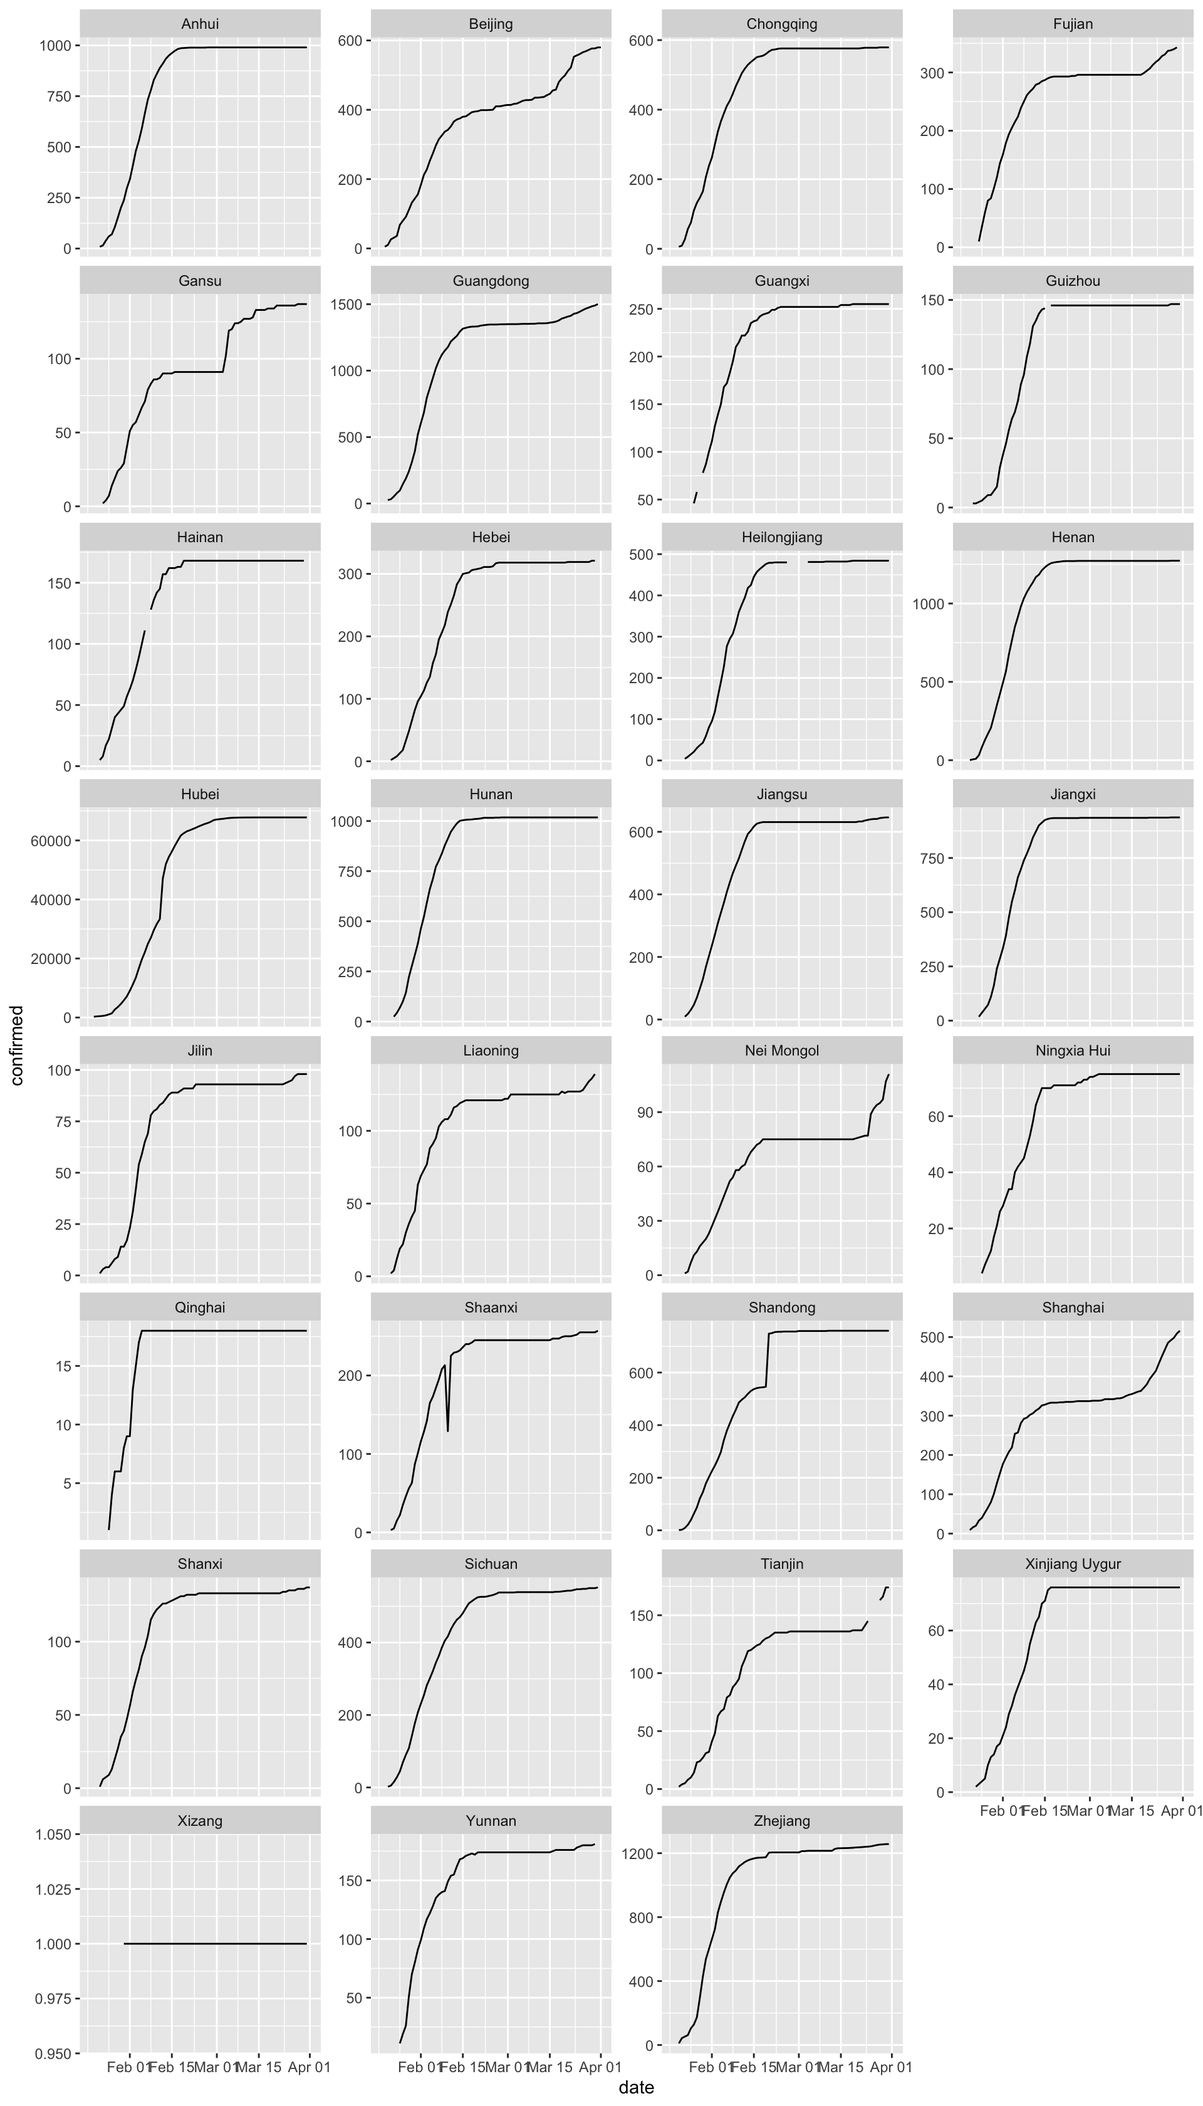
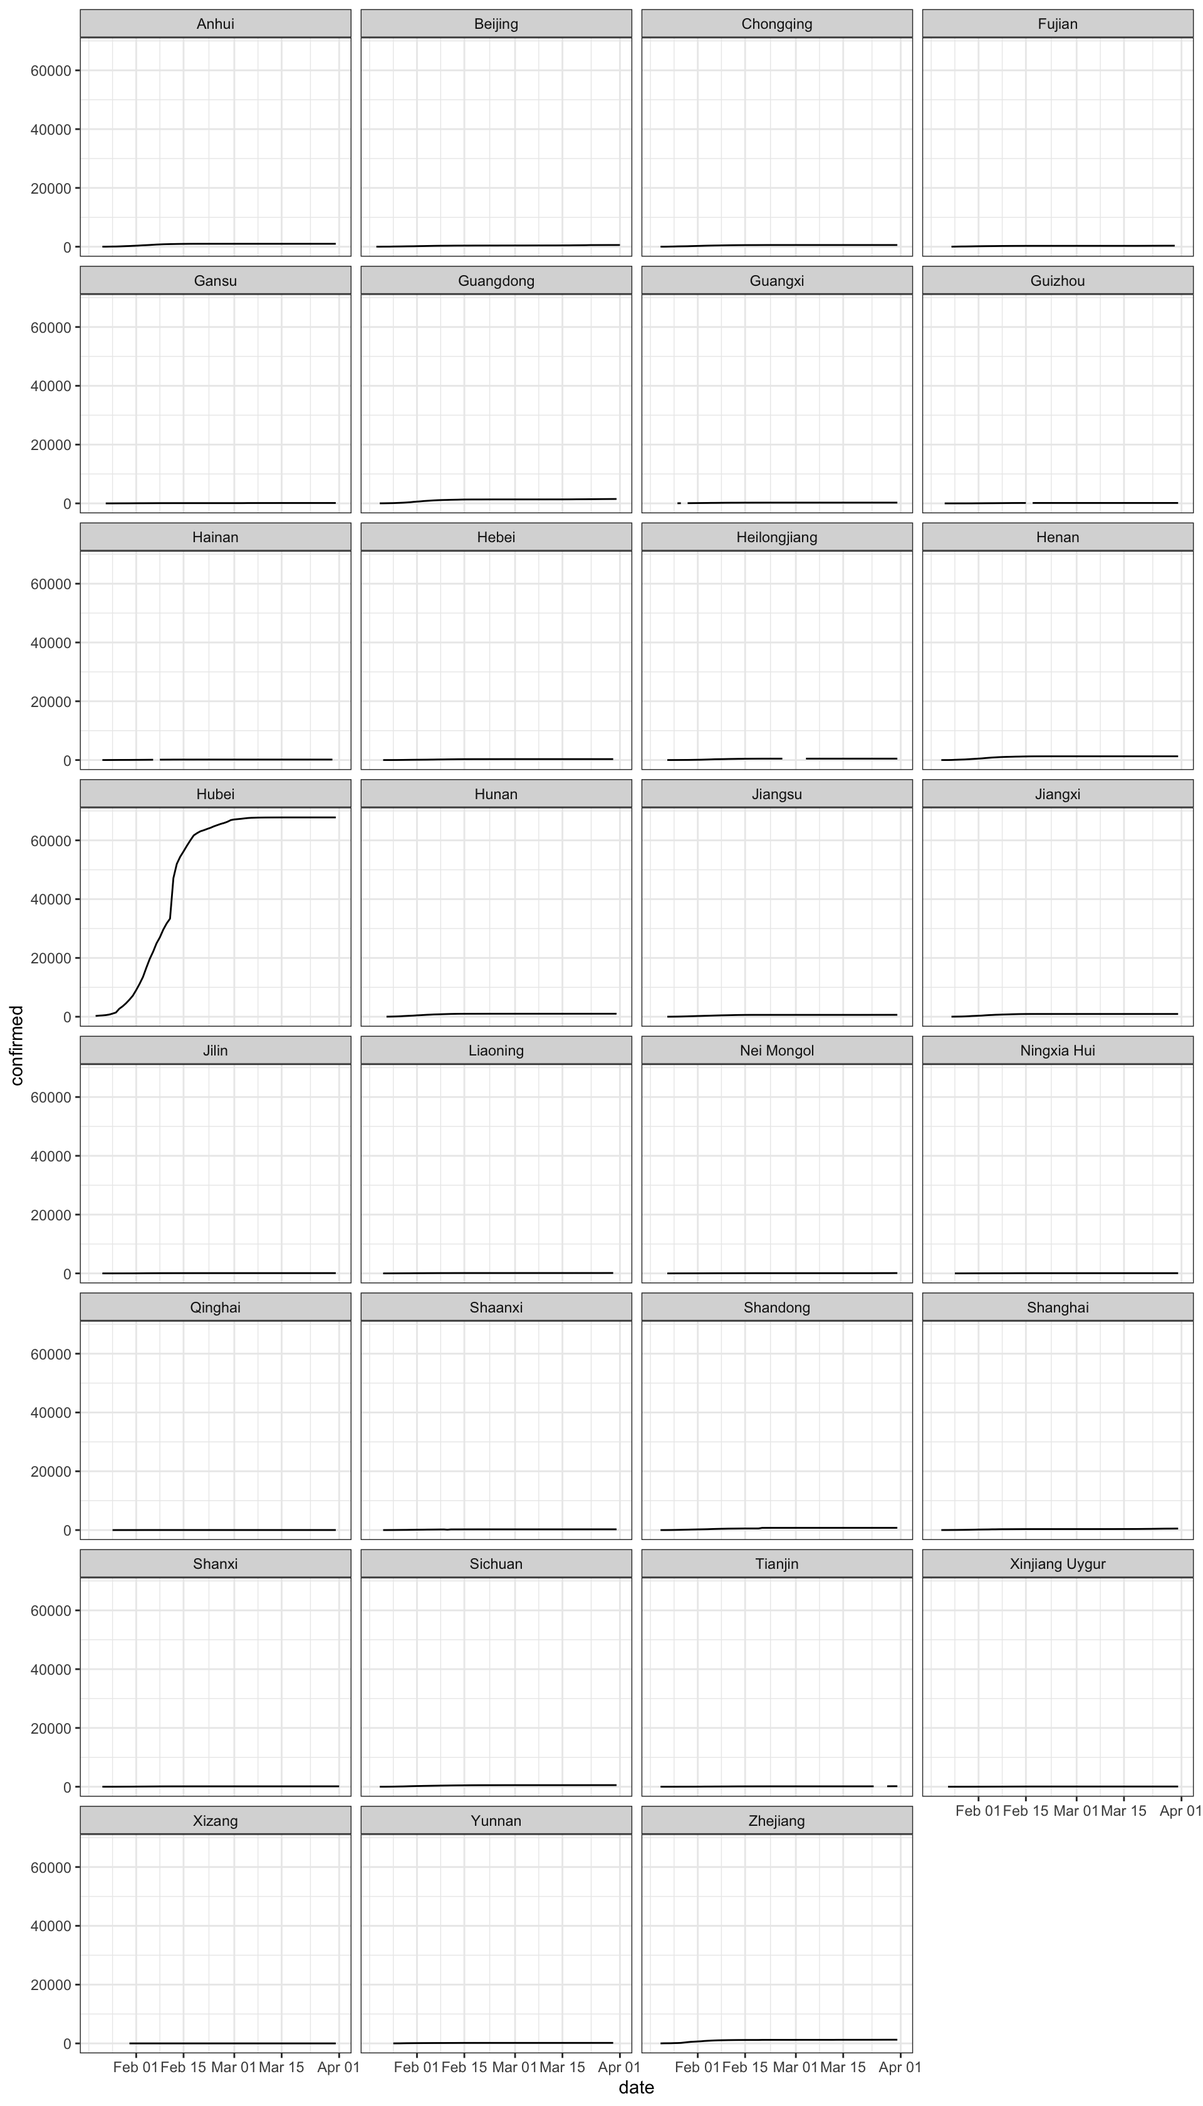
update docs/ outputs

diff --git a/docs/articles/visualisation_china.html b/docs/articles/visualisation_china.html
@@ -320,9 +320,11 @@
   <span class="fu"><a href="https://dplyr.tidyverse.org/reference/filter.html">filter</a></span>(<span class="no">source</span> <span class="kw">==</span> <span class="st">"CHN_ICL"</span>,
          !<span class="fu"><a href="https://rdrr.io/r/base/NA.html">is.na</a></span>(<span class="no">adm_area_1</span>)) <span class="kw">%&gt;%</span>
   <span class="fu"><a href="https://dplyr.tidyverse.org/reference/arrange.html">arrange</a></span>(<span class="fu"><a href="https://dplyr.tidyverse.org/reference/desc.html">desc</a></span>(<span class="no">date</span>)) <span class="kw">%&gt;%</span>
-  <span class="fu"><a href="https://ggplot2.tidyverse.org/reference/ggplot.html">ggplot</a></span>(<span class="kw">mapping</span> <span class="kw">=</span> <span class="fu"><a href="https://ggplot2.tidyverse.org/reference/aes.html">aes</a></span>(<span class="kw">x</span> <span class="kw">=</span> <span class="no">date</span>, <span class="kw">y</span> <span class="kw">=</span> <span class="no">confirmed</span>)) +
+  <span class="fu"><a href="https://ggplot2.tidyverse.org/reference/ggplot.html">ggplot</a></span>(<span class="kw">mapping</span> <span class="kw">=</span> <span class="fu"><a href="https://ggplot2.tidyverse.org/reference/aes.html">aes</a></span>(<span class="kw">x</span> <span class="kw">=</span> <span class="no">date</span>, <span class="kw">y</span> <span class="kw">=</span> <span class="no">confirmed</span>, <span class="kw">colour</span> <span class="kw">=</span> <span class="no">adm_area_1</span>)) +
   <span class="fu"><a href="https://ggplot2.tidyverse.org/reference/geom_path.html">geom_line</a></span>() +
-  <span class="fu"><a href="https://ggplot2.tidyverse.org/reference/facet_wrap.html">facet_wrap</a></span>( ~ <span class="no">adm_area_1</span>, <span class="kw">ncol</span> <span class="kw">=</span> <span class="fl">4</span>)</pre></body></html></div>
+  <span class="fu"><a href="https://ggplot2.tidyverse.org/reference/geom_point.html">geom_point</a></span>() +
+  <span class="fu"><a href="https://ggplot2.tidyverse.org/reference/scale_colour_discrete.html">scale_colour_discrete</a></span>(<span class="kw">name</span> <span class="kw">=</span> <span class="kw">NULL</span>) +
+  <span class="fu"><a href="https://ggplot2.tidyverse.org/reference/ggtheme.html">theme_minimal</a></span>()</pre></body></html></div>
 <p><img src="visualisation_china_files/figure-html/example7a-1.png" width="960" style="display: block; margin: auto;"></p>
 <div class="sourceCode" id="cb11"><html><body><pre class="r"><span class="fu"><a href="../reference/connect_oxcovid19.html">connect_oxcovid19</a></span>() <span class="kw">%&gt;%</span>
   <span class="fu"><a href="../reference/get_table.html">get_table</a></span>(<span class="kw">tbl_name</span> <span class="kw">=</span> <span class="st">"epidemiology"</span>) <span class="kw">%&gt;%</span>
@@ -331,21 +333,23 @@
   <span class="fu"><a href="https://dplyr.tidyverse.org/reference/arrange.html">arrange</a></span>(<span class="fu"><a href="https://dplyr.tidyverse.org/reference/desc.html">desc</a></span>(<span class="no">date</span>)) <span class="kw">%&gt;%</span>
   <span class="fu"><a href="https://ggplot2.tidyverse.org/reference/ggplot.html">ggplot</a></span>(<span class="kw">mapping</span> <span class="kw">=</span> <span class="fu"><a href="https://ggplot2.tidyverse.org/reference/aes.html">aes</a></span>(<span class="kw">x</span> <span class="kw">=</span> <span class="no">date</span>, <span class="kw">y</span> <span class="kw">=</span> <span class="no">confirmed</span>)) +
   <span class="fu"><a href="https://ggplot2.tidyverse.org/reference/geom_path.html">geom_line</a></span>() +
-  <span class="fu"><a href="https://ggplot2.tidyverse.org/reference/facet_wrap.html">facet_wrap</a></span>( ~ <span class="no">adm_area_1</span>, <span class="kw">ncol</span> <span class="kw">=</span> <span class="fl">4</span>, <span class="kw">scales</span> <span class="kw">=</span> <span class="st">"free_y"</span>)</pre></body></html></div>
+  <span class="fu"><a href="https://ggplot2.tidyverse.org/reference/facet_wrap.html">facet_wrap</a></span>( ~ <span class="no">adm_area_1</span>, <span class="kw">ncol</span> <span class="kw">=</span> <span class="fl">4</span>) +
+  <span class="fu"><a href="https://ggplot2.tidyverse.org/reference/ggtheme.html">theme_bw</a></span>()</pre></body></html></div>
 <p><img src="visualisation_china_files/figure-html/example7b-1.png" width="960" style="display: block; margin: auto;"></p>
-</div>
-<div id="check-monotonicity-of-data---dead" class="section level2">
-<h2 class="hasAnchor">
-<a href="#check-monotonicity-of-data---dead" class="anchor"></a>Check monotonicity of data - dead</h2>
 <div class="sourceCode" id="cb12"><html><body><pre class="r"><span class="fu"><a href="../reference/connect_oxcovid19.html">connect_oxcovid19</a></span>() <span class="kw">%&gt;%</span>
   <span class="fu"><a href="../reference/get_table.html">get_table</a></span>(<span class="kw">tbl_name</span> <span class="kw">=</span> <span class="st">"epidemiology"</span>) <span class="kw">%&gt;%</span>
   <span class="fu"><a href="https://dplyr.tidyverse.org/reference/filter.html">filter</a></span>(<span class="no">source</span> <span class="kw">==</span> <span class="st">"CHN_ICL"</span>,
          !<span class="fu"><a href="https://rdrr.io/r/base/NA.html">is.na</a></span>(<span class="no">adm_area_1</span>)) <span class="kw">%&gt;%</span>
   <span class="fu"><a href="https://dplyr.tidyverse.org/reference/arrange.html">arrange</a></span>(<span class="fu"><a href="https://dplyr.tidyverse.org/reference/desc.html">desc</a></span>(<span class="no">date</span>)) <span class="kw">%&gt;%</span>
-  <span class="fu"><a href="https://ggplot2.tidyverse.org/reference/ggplot.html">ggplot</a></span>(<span class="kw">mapping</span> <span class="kw">=</span> <span class="fu"><a href="https://ggplot2.tidyverse.org/reference/aes.html">aes</a></span>(<span class="kw">x</span> <span class="kw">=</span> <span class="no">date</span>, <span class="kw">y</span> <span class="kw">=</span> <span class="no">dead</span>)) +
+  <span class="fu"><a href="https://ggplot2.tidyverse.org/reference/ggplot.html">ggplot</a></span>(<span class="kw">mapping</span> <span class="kw">=</span> <span class="fu"><a href="https://ggplot2.tidyverse.org/reference/aes.html">aes</a></span>(<span class="kw">x</span> <span class="kw">=</span> <span class="no">date</span>, <span class="kw">y</span> <span class="kw">=</span> <span class="no">confirmed</span>)) +
   <span class="fu"><a href="https://ggplot2.tidyverse.org/reference/geom_path.html">geom_line</a></span>() +
-  <span class="fu"><a href="https://ggplot2.tidyverse.org/reference/facet_wrap.html">facet_wrap</a></span>( ~ <span class="no">adm_area_1</span>, <span class="kw">ncol</span> <span class="kw">=</span> <span class="fl">4</span>)</pre></body></html></div>
-<p><img src="visualisation_china_files/figure-html/example8a-1.png" width="960" style="display: block; margin: auto;"></p>
+  <span class="fu"><a href="https://ggplot2.tidyverse.org/reference/facet_wrap.html">facet_wrap</a></span>( ~ <span class="no">adm_area_1</span>, <span class="kw">ncol</span> <span class="kw">=</span> <span class="fl">4</span>, <span class="kw">scales</span> <span class="kw">=</span> <span class="st">"free_y"</span>) +
+  <span class="fu"><a href="https://ggplot2.tidyverse.org/reference/ggtheme.html">theme_bw</a></span>()</pre></body></html></div>
+<p><img src="visualisation_china_files/figure-html/example7c-1.png" width="960" style="display: block; margin: auto;"></p>
+</div>
+<div id="check-monotonicity-of-data---dead" class="section level2">
+<h2 class="hasAnchor">
+<a href="#check-monotonicity-of-data---dead" class="anchor"></a>Check monotonicity of data - dead</h2>
 <div class="sourceCode" id="cb13"><html><body><pre class="r"><span class="fu"><a href="../reference/connect_oxcovid19.html">connect_oxcovid19</a></span>() <span class="kw">%&gt;%</span>
   <span class="fu"><a href="../reference/get_table.html">get_table</a></span>(<span class="kw">tbl_name</span> <span class="kw">=</span> <span class="st">"epidemiology"</span>) <span class="kw">%&gt;%</span>
   <span class="fu"><a href="https://dplyr.tidyverse.org/reference/filter.html">filter</a></span>(<span class="no">source</span> <span class="kw">==</span> <span class="st">"CHN_ICL"</span>,
@@ -353,7 +357,18 @@
   <span class="fu"><a href="https://dplyr.tidyverse.org/reference/arrange.html">arrange</a></span>(<span class="fu"><a href="https://dplyr.tidyverse.org/reference/desc.html">desc</a></span>(<span class="no">date</span>)) <span class="kw">%&gt;%</span>
   <span class="fu"><a href="https://ggplot2.tidyverse.org/reference/ggplot.html">ggplot</a></span>(<span class="kw">mapping</span> <span class="kw">=</span> <span class="fu"><a href="https://ggplot2.tidyverse.org/reference/aes.html">aes</a></span>(<span class="kw">x</span> <span class="kw">=</span> <span class="no">date</span>, <span class="kw">y</span> <span class="kw">=</span> <span class="no">dead</span>)) +
   <span class="fu"><a href="https://ggplot2.tidyverse.org/reference/geom_path.html">geom_line</a></span>() +
-  <span class="fu"><a href="https://ggplot2.tidyverse.org/reference/facet_wrap.html">facet_wrap</a></span>( ~ <span class="no">adm_area_1</span>, <span class="kw">ncol</span> <span class="kw">=</span> <span class="fl">4</span>, <span class="kw">scales</span> <span class="kw">=</span> <span class="st">"free_y"</span>)</pre></body></html></div>
+  <span class="fu"><a href="https://ggplot2.tidyverse.org/reference/facet_wrap.html">facet_wrap</a></span>( ~ <span class="no">adm_area_1</span>, <span class="kw">ncol</span> <span class="kw">=</span> <span class="fl">4</span>) +
+  <span class="fu"><a href="https://ggplot2.tidyverse.org/reference/ggtheme.html">theme_bw</a></span>()</pre></body></html></div>
+<p><img src="visualisation_china_files/figure-html/example8a-1.png" width="960" style="display: block; margin: auto;"></p>
+<div class="sourceCode" id="cb14"><html><body><pre class="r"><span class="fu"><a href="../reference/connect_oxcovid19.html">connect_oxcovid19</a></span>() <span class="kw">%&gt;%</span>
+  <span class="fu"><a href="../reference/get_table.html">get_table</a></span>(<span class="kw">tbl_name</span> <span class="kw">=</span> <span class="st">"epidemiology"</span>) <span class="kw">%&gt;%</span>
+  <span class="fu"><a href="https://dplyr.tidyverse.org/reference/filter.html">filter</a></span>(<span class="no">source</span> <span class="kw">==</span> <span class="st">"CHN_ICL"</span>,
+         !<span class="fu"><a href="https://rdrr.io/r/base/NA.html">is.na</a></span>(<span class="no">adm_area_1</span>)) <span class="kw">%&gt;%</span>
+  <span class="fu"><a href="https://dplyr.tidyverse.org/reference/arrange.html">arrange</a></span>(<span class="fu"><a href="https://dplyr.tidyverse.org/reference/desc.html">desc</a></span>(<span class="no">date</span>)) <span class="kw">%&gt;%</span>
+  <span class="fu"><a href="https://ggplot2.tidyverse.org/reference/ggplot.html">ggplot</a></span>(<span class="kw">mapping</span> <span class="kw">=</span> <span class="fu"><a href="https://ggplot2.tidyverse.org/reference/aes.html">aes</a></span>(<span class="kw">x</span> <span class="kw">=</span> <span class="no">date</span>, <span class="kw">y</span> <span class="kw">=</span> <span class="no">dead</span>)) +
+  <span class="fu"><a href="https://ggplot2.tidyverse.org/reference/geom_path.html">geom_line</a></span>() +
+  <span class="fu"><a href="https://ggplot2.tidyverse.org/reference/facet_wrap.html">facet_wrap</a></span>( ~ <span class="no">adm_area_1</span>, <span class="kw">ncol</span> <span class="kw">=</span> <span class="fl">4</span>, <span class="kw">scales</span> <span class="kw">=</span> <span class="st">"free_y"</span>) +
+  <span class="fu"><a href="https://ggplot2.tidyverse.org/reference/ggtheme.html">theme_bw</a></span>()</pre></body></html></div>
 <p><img src="visualisation_china_files/figure-html/example8b-1.png" width="960" style="display: block; margin: auto;"></p>
 </div>
   </div>

diff --git a/docs/reference/get_table.html b/docs/reference/get_table.html
@@ -162,16 +162,16 @@ one of the table names given by a call to <code>list_tables</code>.</p></td>
 #&gt; </span><span style='color: #555555;'># Database: postgres [covid19@covid19db.org:5432/covid19]</span><span>
 #&gt;    source date       country countrycode adm_area_1 adm_area_2 adm_area_3 tested
 #&gt;    </span><span style='color: #555555;font-style: italic;'>&lt;chr&gt;</span><span>  </span><span style='color: #555555;font-style: italic;'>&lt;date&gt;</span><span>     </span><span style='color: #555555;font-style: italic;'>&lt;chr&gt;</span><span>   </span><span style='color: #555555;font-style: italic;'>&lt;chr&gt;</span><span>       </span><span style='color: #555555;font-style: italic;'>&lt;chr&gt;</span><span>      </span><span style='color: #555555;font-style: italic;'>&lt;chr&gt;</span><span>      </span><span style='color: #555555;font-style: italic;'>&lt;chr&gt;</span><span>       </span><span style='color: #555555;font-style: italic;'>&lt;int&gt;</span><span>
-#&gt; </span><span style='color: #555555;'> 1</span><span> GBR_P… 2020-03-13 United… GBR         England    St. Helens </span><span style='color: #BB0000;'>NA</span><span>             </span><span style='color: #BB0000;'>NA</span><span>
-#&gt; </span><span style='color: #555555;'> 2</span><span> GBR_P… 2020-03-13 United… GBR         England    Suffolk    </span><span style='color: #BB0000;'>NA</span><span>             </span><span style='color: #BB0000;'>NA</span><span>
-#&gt; </span><span style='color: #555555;'> 3</span><span> GBR_P… 2020-03-13 United… GBR         England    Tower Ham… </span><span style='color: #BB0000;'>NA</span><span>             </span><span style='color: #BB0000;'>NA</span><span>
-#&gt; </span><span style='color: #555555;'> 4</span><span> GBR_P… 2020-03-13 United… GBR         England    Hackney    </span><span style='color: #BB0000;'>NA</span><span>             </span><span style='color: #BB0000;'>NA</span><span>
-#&gt; </span><span style='color: #555555;'> 5</span><span> GBR_P… 2020-03-13 United… GBR         England    Croydon    </span><span style='color: #BB0000;'>NA</span><span>             </span><span style='color: #BB0000;'>NA</span><span>
-#&gt; </span><span style='color: #555555;'> 6</span><span> GBR_P… 2020-03-13 United… GBR         England    Devon      </span><span style='color: #BB0000;'>NA</span><span>             </span><span style='color: #BB0000;'>NA</span><span>
-#&gt; </span><span style='color: #555555;'> 7</span><span> GBR_P… 2020-03-13 United… GBR         England    East Ridi… </span><span style='color: #BB0000;'>NA</span><span>             </span><span style='color: #BB0000;'>NA</span><span>
-#&gt; </span><span style='color: #555555;'> 8</span><span> GBR_P… 2020-03-13 United… GBR         England    East Suss… </span><span style='color: #BB0000;'>NA</span><span>             </span><span style='color: #BB0000;'>NA</span><span>
-#&gt; </span><span style='color: #555555;'> 9</span><span> GBR_P… 2020-03-13 United… GBR         England    Greenwich  </span><span style='color: #BB0000;'>NA</span><span>             </span><span style='color: #BB0000;'>NA</span><span>
-#&gt; </span><span style='color: #555555;'>10</span><span> GBR_P… 2020-03-13 United… GBR         England    Haringey   </span><span style='color: #BB0000;'>NA</span><span>             </span><span style='color: #BB0000;'>NA</span><span>
+#&gt; </span><span style='color: #555555;'> 1</span><span> GBR_P… 2020-03-19 United… GBR         Scotland   NHS Highl… </span><span style='color: #BB0000;'>NA</span><span>             </span><span style='color: #BB0000;'>NA</span><span>
+#&gt; </span><span style='color: #555555;'> 2</span><span> GBR_P… 2020-03-19 United… GBR         Scotland   NHS Lanar… </span><span style='color: #BB0000;'>NA</span><span>             </span><span style='color: #BB0000;'>NA</span><span>
+#&gt; </span><span style='color: #555555;'> 3</span><span> GBR_P… 2020-03-19 United… GBR         Scotland   NHS Lothi… </span><span style='color: #BB0000;'>NA</span><span>             </span><span style='color: #BB0000;'>NA</span><span>
+#&gt; </span><span style='color: #555555;'> 4</span><span> GBR_P… 2020-03-19 United… GBR         Scotland   NHS Orkney </span><span style='color: #BB0000;'>NA</span><span>             </span><span style='color: #BB0000;'>NA</span><span>
+#&gt; </span><span style='color: #555555;'> 5</span><span> GBR_P… 2020-03-19 United… GBR         Scotland   NHS Shetl… </span><span style='color: #BB0000;'>NA</span><span>             </span><span style='color: #BB0000;'>NA</span><span>
+#&gt; </span><span style='color: #555555;'> 6</span><span> GBR_P… 2020-03-19 United… GBR         Scotland   NHS Taysi… </span><span style='color: #BB0000;'>NA</span><span>             </span><span style='color: #BB0000;'>NA</span><span>
+#&gt; </span><span style='color: #555555;'> 7</span><span> GBR_P… 2020-03-19 United… GBR         Scotland   NHS Weste… </span><span style='color: #BB0000;'>NA</span><span>             </span><span style='color: #BB0000;'>NA</span><span>
+#&gt; </span><span style='color: #555555;'> 8</span><span> GBR_P… 2020-03-19 United… GBR         Wales      Aneurin B… </span><span style='color: #BB0000;'>NA</span><span>             </span><span style='color: #BB0000;'>NA</span><span>
+#&gt; </span><span style='color: #555555;'> 9</span><span> GBR_P… 2020-03-19 United… GBR         Wales      Cardiff a… </span><span style='color: #BB0000;'>NA</span><span>             </span><span style='color: #BB0000;'>NA</span><span>
+#&gt; </span><span style='color: #555555;'>10</span><span> GBR_P… 2020-03-19 United… GBR         Wales      Cwm Taf H… </span><span style='color: #BB0000;'>NA</span><span>             </span><span style='color: #BB0000;'>NA</span><span>
 #&gt; </span><span style='color: #555555;'># … with more rows, and 7 more variables: confirmed </span><span style='color: #555555;font-style: italic;'>&lt;int&gt;</span><span style='color: #555555;'>, recovered </span><span style='color: #555555;font-style: italic;'>&lt;int&gt;</span><span style='color: #555555;'>,</span><span>
 #&gt; </span><span style='color: #555555;'>#   dead </span><span style='color: #555555;font-style: italic;'>&lt;int&gt;</span><span style='color: #555555;'>, hospitalised </span><span style='color: #555555;font-style: italic;'>&lt;int&gt;</span><span style='color: #555555;'>, hospitalised_icu </span><span style='color: #555555;font-style: italic;'>&lt;int&gt;</span><span style='color: #555555;'>, quarantined </span><span style='color: #555555;font-style: italic;'>&lt;int&gt;</span><span style='color: #555555;'>,</span><span>
 #&gt; </span><span style='color: #555555;'>#   gid </span><span style='color: #555555;font-style: italic;'>&lt;chr&gt;</span><span></div><div class='input'>
